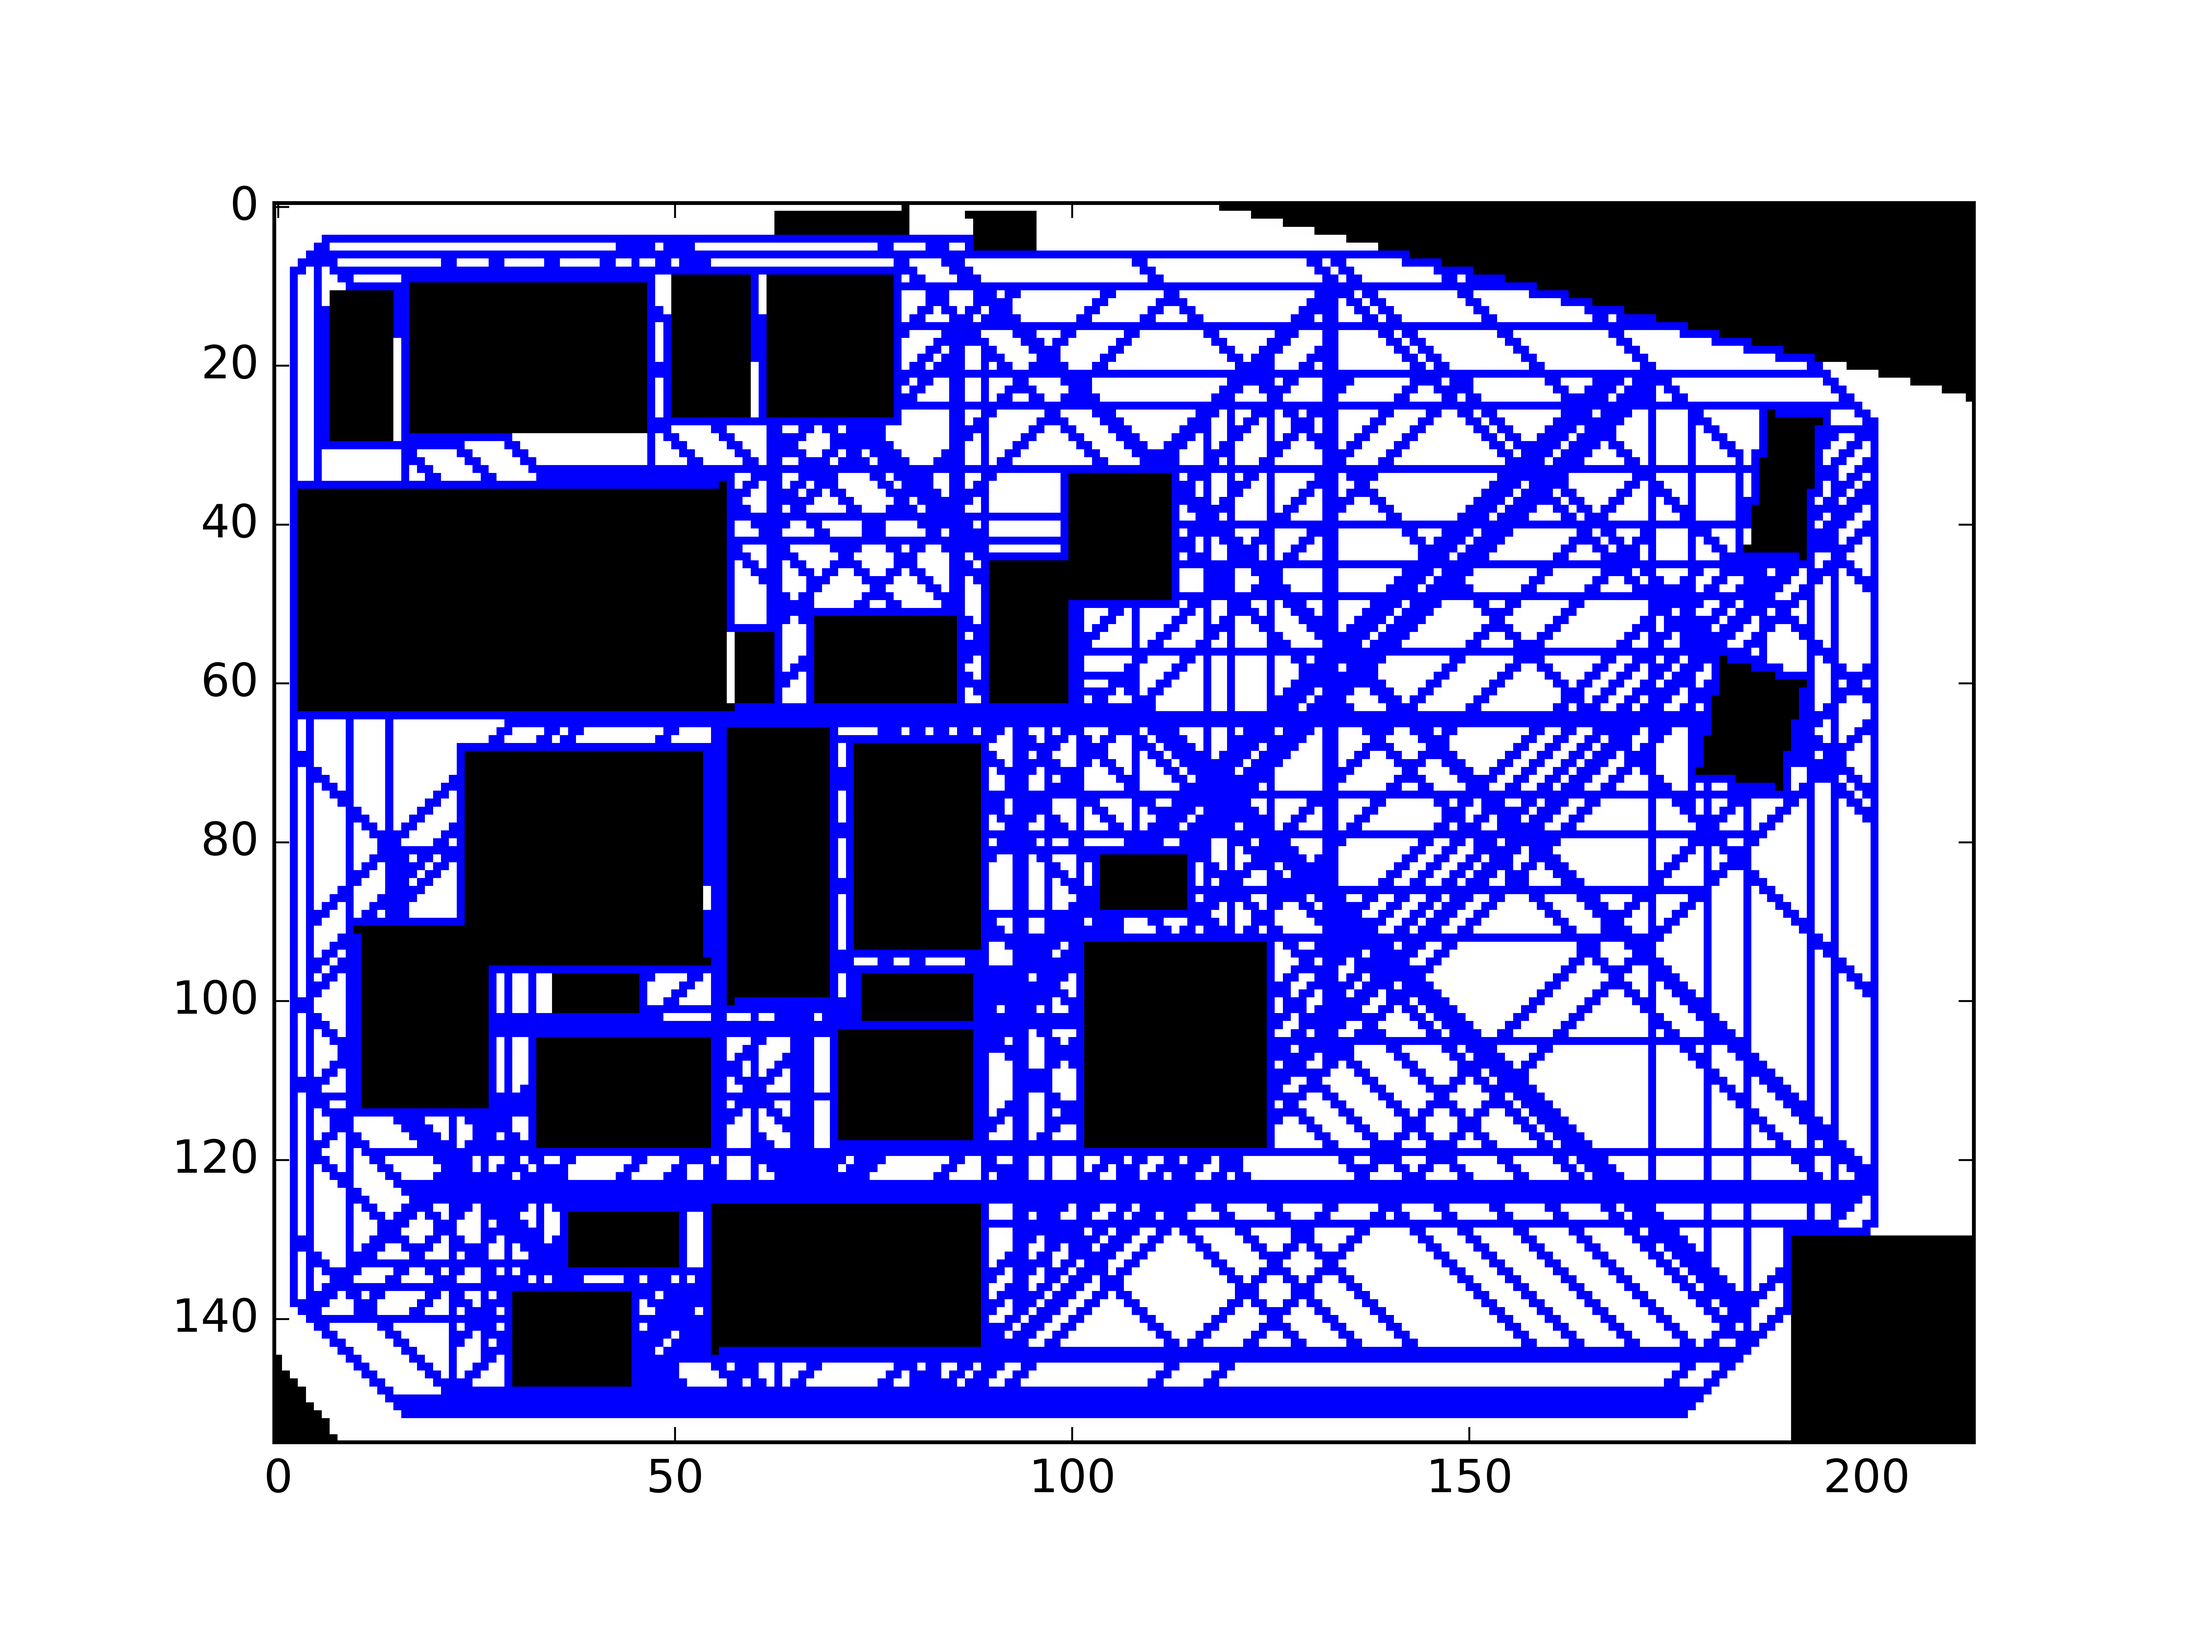
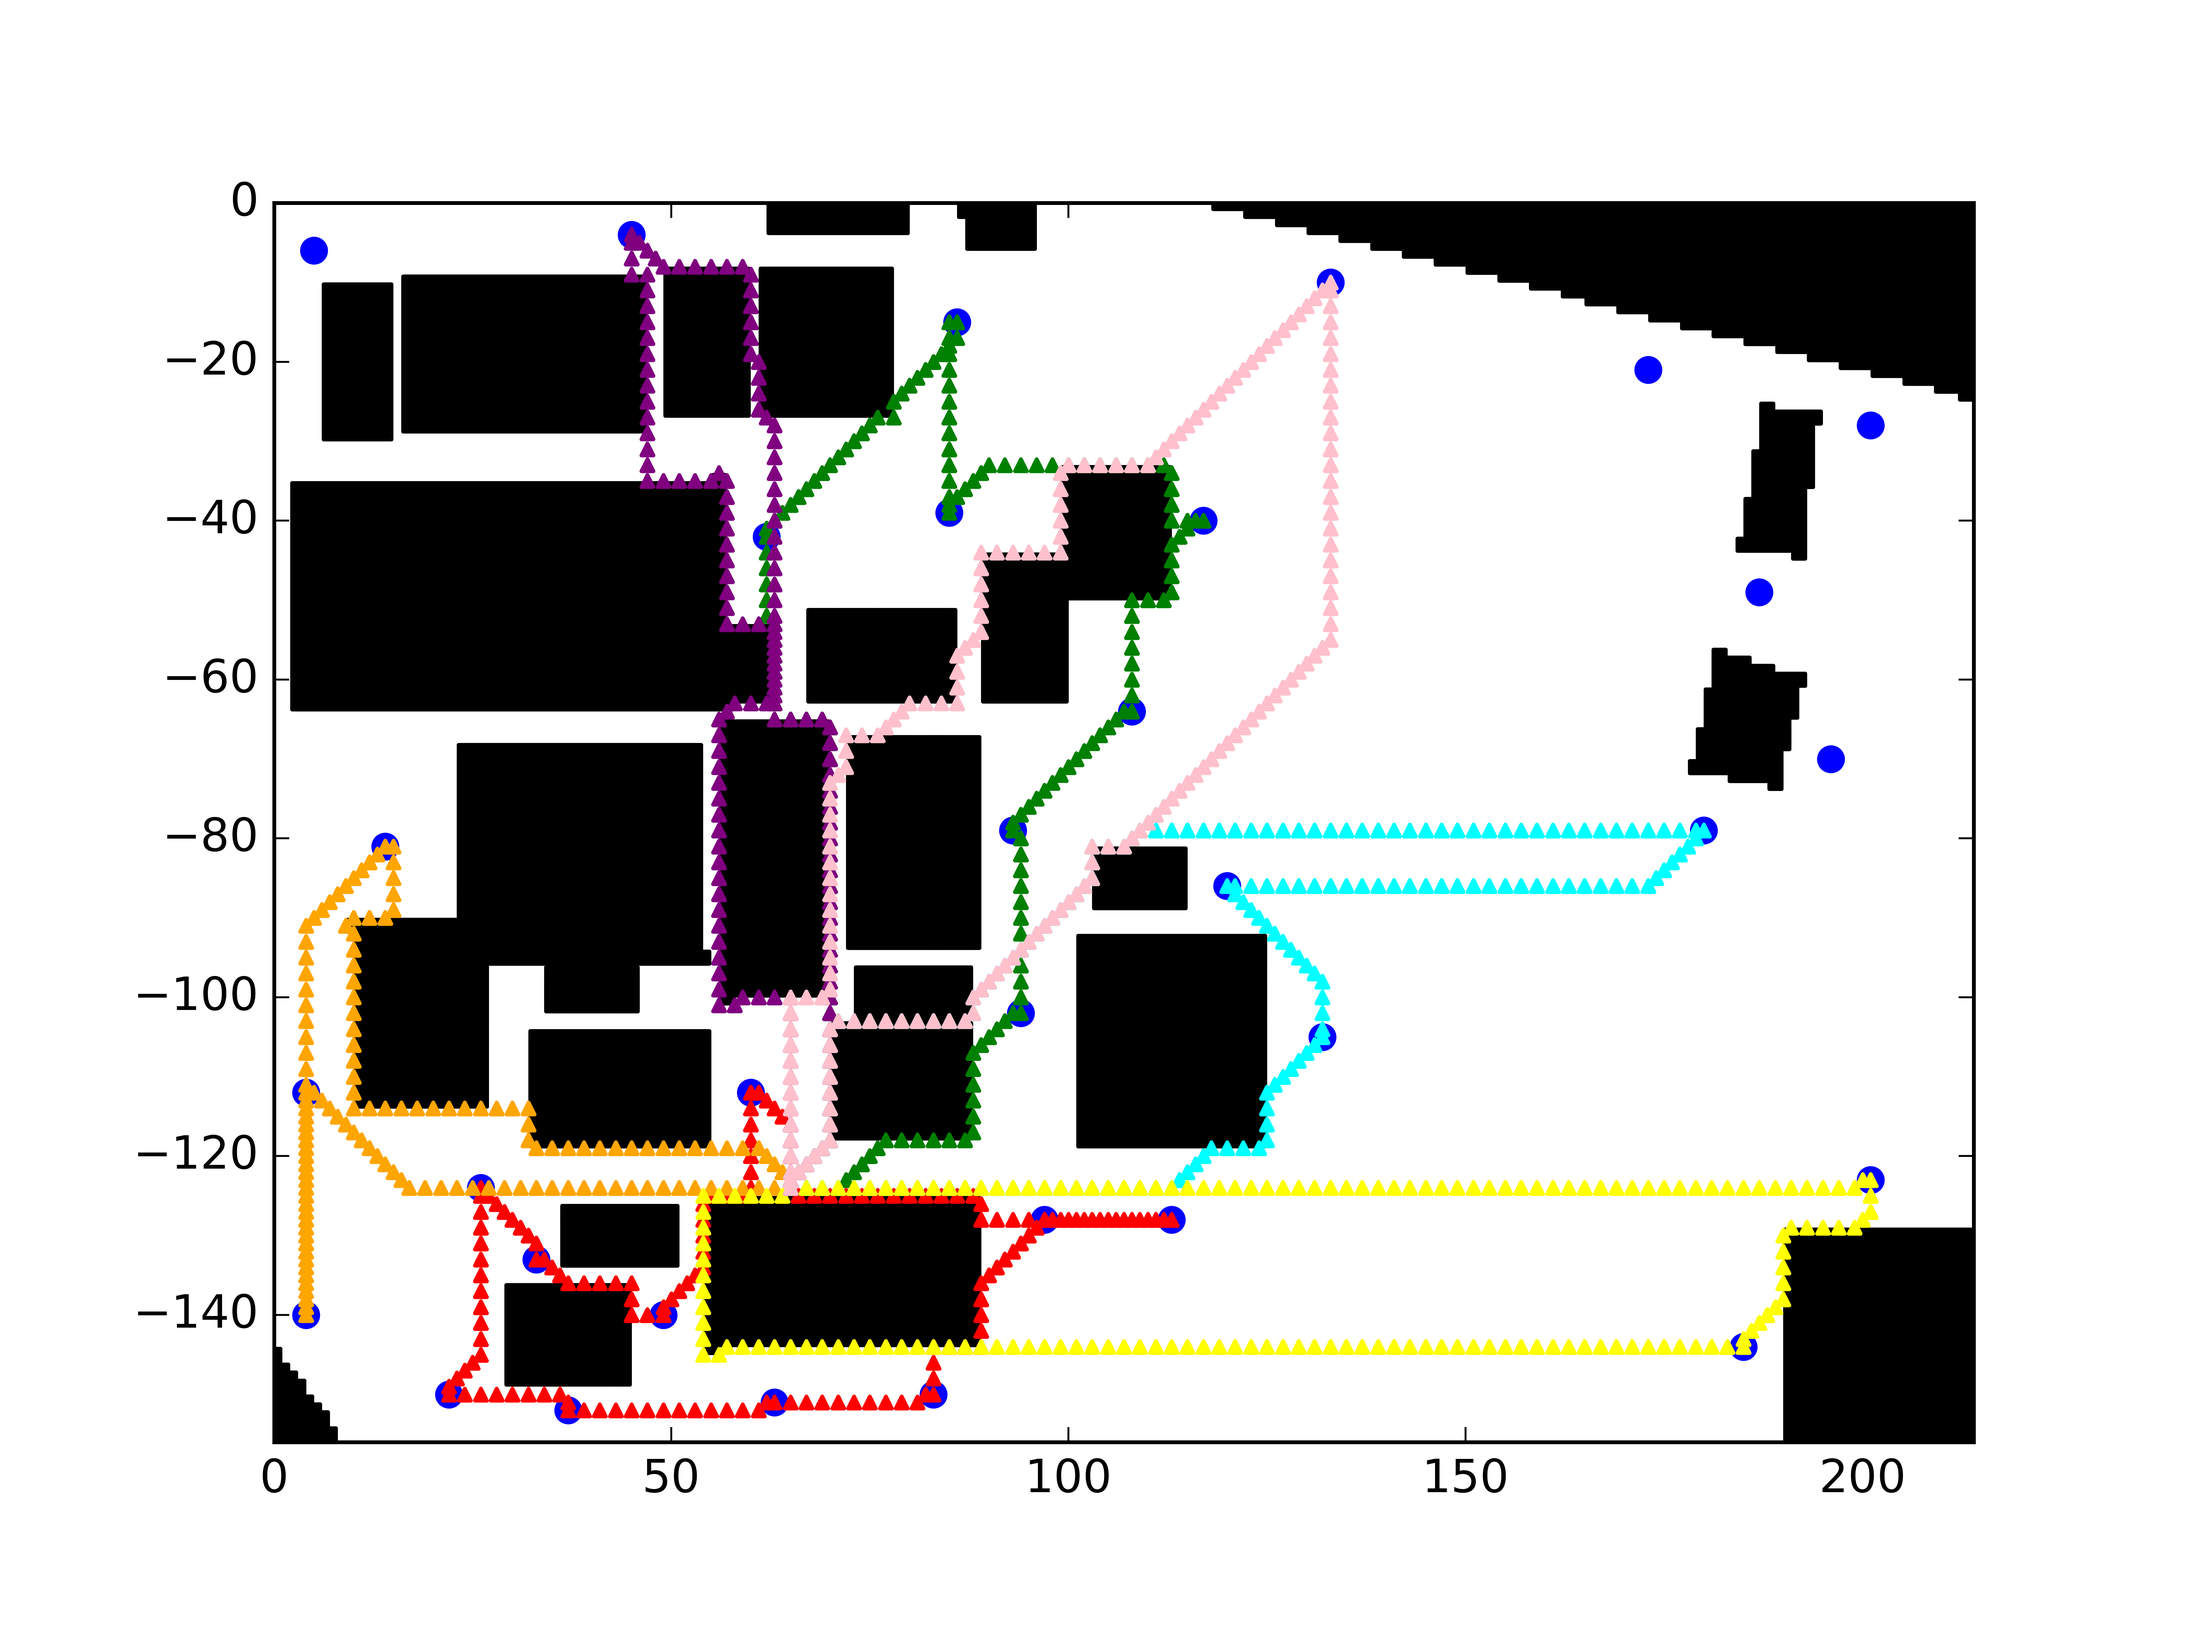
simulator js

Changed region(s): [[0.0625, 0.125, 0.875, 0.9062], [0.8438, 0.875, 0.875, 0.9062]]

diff --git a/static/scripts/simulation.js b/static/scripts/simulation.js
@@ -1,0 +1,31 @@
+function simulation(){
+  nb_drones = plan.length;
+  drones = Array();
+  for(var i = 0; i < nb_drones; i++){
+    d = L.circleMarker(starting_point[i], {radius: 3, color: 'white'}, 1).addTo(campus);
+    drones.push(d);
+  }
+  a = 0;
+  for(var i = 0; i < nb_patrol; i++){
+    for(var j = 0; j < patrol_lengths[i]; j++){
+      a += 1;
+      //console.log(k + " " + " " + i + " " + j);
+      try{
+        update_position(i, j, a);
+      }
+      catch(err){
+        console.log(err)
+        console.log("No point for drone " + k + " at " + j);
+      }
+    }
+  }
+}
+
+function update_position(i, j, a){
+  setTimeout(function(){
+    for(var k = 0; k < nb_drones; k++){
+      drones[k].setLatLng(plan[k][i][j]);
+    }
+    //console.log("move drone " + k + " at " + plan[k][i][j]);
+  }, a * 1000);
+}

diff --git a/static/scripts/listeners.js b/static/scripts/listeners.js
@@ -36,6 +36,8 @@ function computePath(){
     success: function(data){
       var response = JSON.parse(data)["response"];
       plan = JSON.parse(data)["computed_path"];
+      nb_patrol = JSON.parse(data)["nb_patrol"];
+      patrol_lengths = JSON.parse(data)["patrol_lengths"];
       window.alert(response);
     },
     error: function(data){
@@ -112,18 +114,7 @@ function setProjection(){
 
 //Starts the simulation of the computed plan
 function simulatePlan(){
-  $.ajax({
-    type: 'post',
-    url: '/planSimulator',
-    contentType: "application/json; charset=utf-8",
-    success: function(data){
-      var response = JSON.parse(data)["response"];
-      window.alert(response);
-    },
-    error: function(data){
-      window.alert("error");
-    }
-  });
+  simulation();
 }
 
 //Stop the simulation

diff --git a/master/index.html b/master/index.html
@@ -30,7 +30,6 @@
 
   <script src="/static/scripts/campus_limits.js"></script>
   <script src="/static/scripts/non_admissible_zones.js"></script>
-  <script src="/static/scripts/projected2.js"></script>
   <script src="/static/scripts/sectors.js"></script>
   <script src="/static/scripts/default_targets.js"></script>
   <script src="/static/scripts/projected_bounds.js"></script>

diff --git a/static/scripts/map.js b/static/scripts/map.js
@@ -19,6 +19,8 @@ var default_waypoints = new Array();
 var projection = new Array();
 var sectors = new Array();
 var plan = new Array();
+var nb_patrol = 0;
+var patrol_lengths = new Array();
 
 //Development tool for easily Lat and Long on click
 // function onMapClick(e){

diff --git a/master/scripts/webserver/webserver.py b/master/scripts/webserver/webserver.py
@@ -12,7 +12,6 @@ path.append("../simulator")
 import settings
 import planner as ppl
 import map_converter as m
-import simulator as sim
 
 app = Flask(__name__,
             template_folder=settings.TEMPLATE_PATH,
@@ -76,7 +75,7 @@ def planner():
         #mapper.plot_world(show=False)
         #mapper.plot_paths(show=False)
         f.close()
-        computed_path = ppl.get_computed_path(mapper, nb_drones)
+        computed_path, nb_patrol, patrol_lengths = ppl.get_computed_path(mapper, nb_drones)
         f = open("data/serialization/plan.pickle", "wb")
         pickle.dump(computed_path, f)
         f.close()
@@ -88,7 +87,7 @@ def planner():
     except IOError:
         response = "World not virtualized yet. Please click on 'compute grid'."
 
-    return json.dumps({"computed_path":computed_path, "response":response})
+    return json.dumps({"computed_path":computed_path, "nb_patrol":nb_patrol, "patrol_lengths":patrol_lengths, "response":response})
 
 @app.route("/pathSender", methods=["POST"])
 def path_sender():
@@ -97,22 +96,6 @@ def path_sender():
     """
 
     #TODO
-
-    return json.dumps({"result":2})
-
-@app.route("/planSimulator", methods=["POST"])
-def plan_simulator():
-    """
-    Simulates the computed path
-    """
-
-    try:
-        f = open("data/serialization/plan.pickle", "rb")
-        plan = pickle.load(f)
-        f.close()
-        sim.simulate(plan)
-    except:
-        response = "No plan found."
 
     return json.dumps({"result":2})
 

diff --git a/master/scripts/settings.py b/master/scripts/settings.py
@@ -3,10 +3,10 @@ Define global variables for the overall system
 """
 
 #Path variables
-TEMPLATE_PATH = "/home/scom/Documents/opu_surveillance_system/monitoring/master/"
-STATIC_PATH = "/home/scom/Documents/opu_surveillance_system/monitoring/static/"
-#TEMPLATE_PATH = "/home/jordan/Documents/tobikoma/monitoring/master/"
-#STATIC_PATH = "/home/jordan/Documents/tobikoma/monitoring/static"
+#TEMPLATE_PATH = "/home/scom/Documents/opu_surveillance_system/monitoring/master/"
+#STATIC_PATH = "/home/scom/Documents/opu_surveillance_system/monitoring/static/"
+TEMPLATE_PATH = "/home/jordan/Documents/tobikoma/monitoring/master/"
+STATIC_PATH = "/home/jordan/Documents/tobikoma/monitoring/static"
 
 #Map Converter
 COEFF = 4
